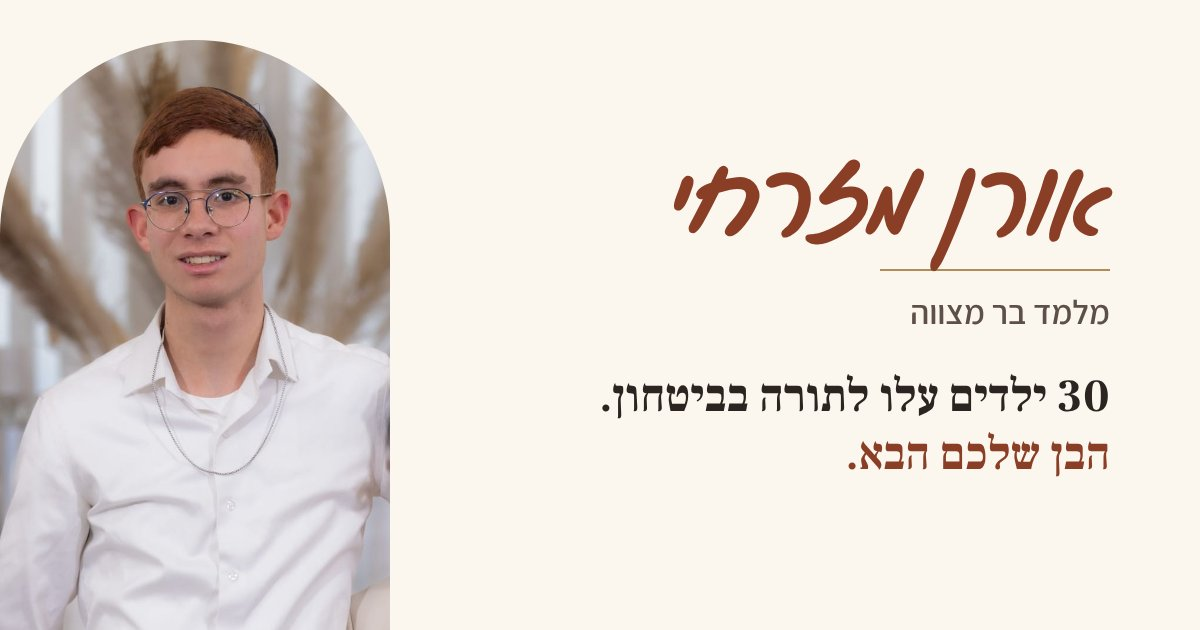
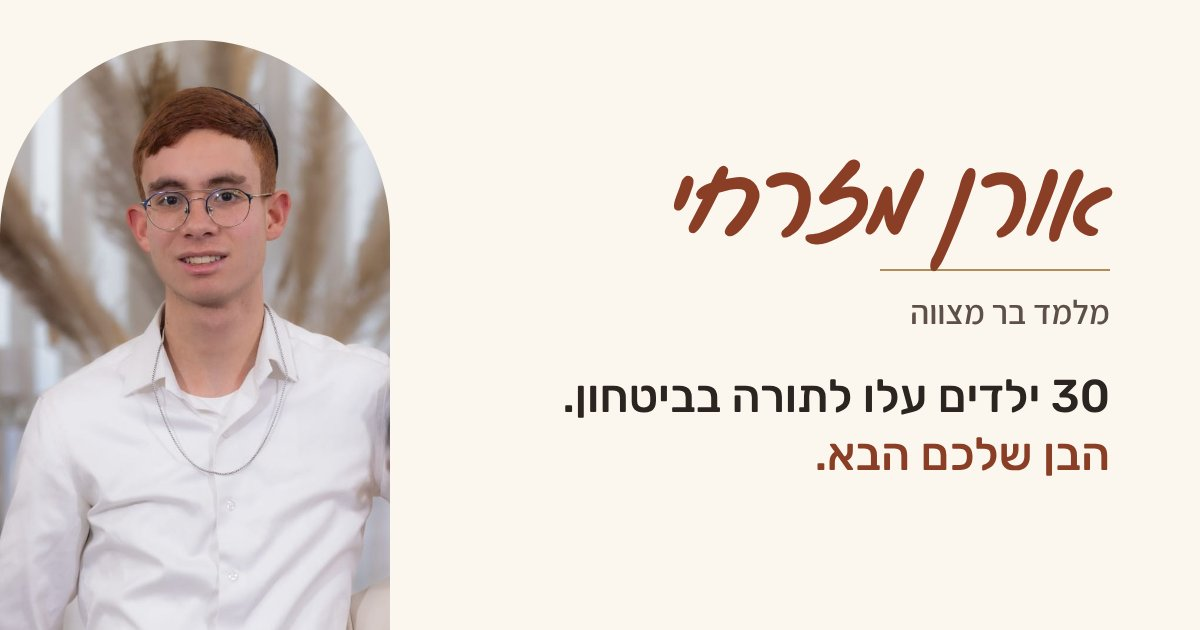
Replace Frank Ruhl Libre with Rubik for all headings
Client decision: Frank Ruhl Libre must not be used anywhere. Headings,
story lead, steps and final CTA now use Rubik 500 (warmer, lighter).
Share image, favicon and apple-touch-icon regenerated with Rubik.
README records the rule.

Claude-Session: https://claude.ai/code/session_01SMSLn2oRG4vBGvP1CJZqDb

Changed region(s): [[0.4625, 0.6032, 0.925, 0.6635], [0.6783, 0.6937, 0.925, 0.754]]

diff --git a/public/css/styles.css b/public/css/styles.css
@@ -2,8 +2,8 @@
 /* קבצי punct: רק ספרות וסימני פיסוק, כדי לא להוריד את כל הלטינית בשביל "30" ונקודה */
 @font-face { font-family: "Verse"; font-weight: 500; font-display: swap; src: url("/fonts/noto-serif-hebrew-verse-500.woff2") format("woff2"); }
 @font-face { font-family: "Gveret Levin"; font-weight: 400; font-display: swap; src: url("/fonts/gveret-levin-hebrew-400-normal.woff2") format("woff2"); unicode-range: U+0020, U+00A0, U+0307-0308, U+0590-05FF, U+200C-2010, U+20AA, U+25CC, U+FB1D-FB4F; }
-@font-face { font-family: "Frank Ruhl Libre"; font-weight: 700; font-display: swap; src: url("/fonts/frank-ruhl-libre-hebrew-700-normal.woff2") format("woff2"); unicode-range: U+0020, U+00A0, U+0307-0308, U+0590-05FF, U+200C-2010, U+20AA, U+25CC, U+FB1D-FB4F; }
-@font-face { font-family: "Frank Ruhl Libre"; font-weight: 700; font-display: swap; src: url("/fonts/frank-ruhl-libre-punct-700.woff2") format("woff2"); unicode-range: U+0021-0040, U+2011-2027; }
+@font-face { font-family: "Rubik"; font-weight: 500; font-display: swap; src: url("/fonts/rubik-hebrew-500-normal.woff2") format("woff2"); unicode-range: U+0020, U+00A0, U+0307-0308, U+0590-05FF, U+200C-2010, U+20AA, U+25CC, U+FB1D-FB4F; }
+@font-face { font-family: "Rubik"; font-weight: 500; font-display: swap; src: url("/fonts/rubik-punct-500.woff2") format("woff2"); unicode-range: U+0021-0040, U+2011-2027; }
 @font-face { font-family: "Assistant"; font-weight: 400; font-display: swap; src: url("/fonts/assistant-hebrew-400-normal.woff2") format("woff2"); unicode-range: U+0020, U+00A0, U+0307-0308, U+0590-05FF, U+200C-2010, U+20AA, U+25CC, U+FB1D-FB4F; }
 @font-face { font-family: "Assistant"; font-weight: 400; font-display: swap; src: url("/fonts/assistant-punct-400.woff2") format("woff2"); unicode-range: U+0021-0040, U+2011-2027; }
 @font-face { font-family: "Assistant"; font-weight: 600; font-display: swap; src: url("/fonts/assistant-hebrew-600-normal.woff2") format("woff2"); unicode-range: U+0020, U+00A0, U+0307-0308, U+0590-05FF, U+200C-2010, U+20AA, U+25CC, U+FB1D-FB4F; }
@@ -23,8 +23,8 @@
   --gold-soft: #d9c39b;
   --focus: #6e2f1b;
 
-  --script: "Gveret Levin", "Frank Ruhl Libre", serif;
-  --serif: "Frank Ruhl Libre", "David Libre", "Times New Roman", serif;
+  --script: "Gveret Levin", "Rubik", sans-serif;
+  --display: "Rubik", "Assistant", system-ui, sans-serif;
   --sans: "Assistant", system-ui, -apple-system, "Segoe UI", Arial, sans-serif;
 
   --shadow-soft: 0 1px 2px rgb(60 40 25 / .06), 0 12px 32px -12px rgb(60 40 25 / .18);
@@ -130,8 +130,8 @@ html { scrollbar-color: var(--gold-soft) var(--cream); }
 .hero-text { text-align: center; }
 
 .hero-title {
-  font-family: var(--serif);
-  font-weight: 700;
+  font-family: var(--display);
+  font-weight: 500;
   font-size: clamp(1.6rem, 8.5vw, 4.1rem);
   line-height: 1.18;
   letter-spacing: -.005em;
@@ -255,8 +255,8 @@ html { scrollbar-color: var(--gold-soft) var(--cream); }
 .story-inner { max-width: 40rem; text-align: center; }
 
 .story-lead {
-  font-family: var(--serif);
-  font-weight: 700;
+  font-family: var(--display);
+  font-weight: 500;
   font-size: clamp(1.45rem, 5.6vw, 2.1rem);
   line-height: 1.45;
   color: var(--ink);
@@ -303,8 +303,8 @@ html { scrollbar-color: var(--gold-soft) var(--cream); }
 .how { padding-block: 4.5rem 5rem; scroll-margin-top: 1rem; }
 
 .section-title {
-  font-family: var(--serif);
-  font-weight: 700;
+  font-family: var(--display);
+  font-weight: 500;
   font-size: clamp(1.75rem, 6vw, 2.6rem);
   line-height: 1.2;
   color: var(--ink);
@@ -346,16 +346,16 @@ html { scrollbar-color: var(--gold-soft) var(--cream); }
   place-items: center;
   background: var(--cream);
   border: 1px solid var(--gold);
-  font-family: var(--serif);
-  font-weight: 700;
+  font-family: var(--display);
+  font-weight: 500;
   font-size: 1.1rem;
   color: var(--terracotta);
 }
 .step-goal .step-mark { color: var(--gold); }
 .step-goal .step-mark svg { width: 1.15rem; height: 1.15rem; }
 .step-title {
-  font-family: var(--serif);
-  font-weight: 700;
+  font-family: var(--display);
+  font-weight: 500;
   font-size: 1.4rem;
   line-height: 1.3;
   color: var(--terracotta);
@@ -552,8 +552,8 @@ html { scrollbar-color: var(--gold-soft) var(--cream); }
   position: relative;
   margin-top: 1.75rem !important;
   padding-inline-start: 1.1rem;
-  font-family: var(--serif);
-  font-weight: 700;
+  font-family: var(--display);
+  font-weight: 500;
   font-size: 1.2rem !important;
   line-height: 1.6 !important;
   color: var(--terracotta-dark);
@@ -584,8 +584,8 @@ html { scrollbar-color: var(--gold-soft) var(--cream); }
 }
 .final-inner { display: flex; flex-direction: column; align-items: center; text-align: center; gap: 1.1rem; }
 .final-title {
-  font-family: var(--serif);
-  font-weight: 700;
+  font-family: var(--display);
+  font-weight: 500;
   font-size: clamp(1.8rem, 7vw, 3rem);
   line-height: 1.25;
   color: var(--ink);
@@ -744,7 +744,7 @@ html { scrollbar-color: var(--gold-soft) var(--cream); }
 .verse-text {
   display: grid;
   margin: 0;
-  font-family: "Verse", var(--serif);
+  font-family: "Verse", var(--display);
   font-weight: 500;
   font-size: clamp(2rem, 9vw, 3.1rem);
   line-height: 1.9;

diff --git a/public/index.html b/public/index.html
@@ -24,8 +24,8 @@
   <link rel="icon" href="/favicon.ico" sizes="48x48">
   <link rel="icon" href="/favicon.svg" type="image/svg+xml">
   <link rel="apple-touch-icon" href="/apple-touch-icon.png">
-  <link rel="preload" href="/fonts/frank-ruhl-libre-hebrew-700-normal.woff2" as="font" type="font/woff2" crossorigin>
-  <link rel="preload" href="/fonts/frank-ruhl-libre-punct-700.woff2" as="font" type="font/woff2" crossorigin>
+  <link rel="preload" href="/fonts/rubik-hebrew-500-normal.woff2" as="font" type="font/woff2" crossorigin>
+  <link rel="preload" href="/fonts/rubik-punct-500.woff2" as="font" type="font/woff2" crossorigin>
   <link rel="preload" href="/fonts/assistant-hebrew-400-normal.woff2" as="font" type="font/woff2" crossorigin>
   <link rel="preload" href="/fonts/gveret-levin-hebrew-400-normal.woff2" as="font" type="font/woff2" crossorigin>
   <link rel="stylesheet" href="/css/styles.css">

diff --git a/README.md b/README.md
@@ -5,7 +5,7 @@
 - `public/index.html` - העמוד: הירו, פסקת בידול, איך זה עובד, המלצות, אודות, קריאה לפעולה ופוטר
 - `public/css/styles.css` - עיצוב
 - `public/js/main.js` - פס וואטסאפ קבוע במובייל ואנימציית שיחת ההמלצות (האתר עובד גם בלי JS)
-- `public/fonts/` - גופנים מוגשים מהאתר (Frank Ruhl Libre, Assistant, Gveret Levin, רישיון OFL)
+- `public/fonts/` - גופנים מוגשים מהאתר: Rubik לכותרות, Assistant לטקסט, Gveret Levin לשם בכתב יד, Noto Serif Hebrew לפסוק בלבד (רישיון OFL)
 - `public/images/` - תמונות מעובדות (ההקדשה על הפרוכת מטושטשת)
 - `vercel.json` - פריסה, CSP וכותרות אבטחה
 
@@ -25,3 +25,7 @@
 - בלי תאריכים, שעות או מספרי טלפון בהמלצות. שמות בדויים
 - מקף רגיל בלבד (-), בלי מקפים ארוכים
 - בלי להמציא המלצות, מספרים או תמונות
+
+## כללי עיצוב
+- כותרות ב-Rubik, טקסט רץ ב-Assistant, השם של אורן ב-Gveret Levin
+- אסור להשתמש ב-Frank Ruhl Libre בשום מקום באתר (החלטת הלקוח)
